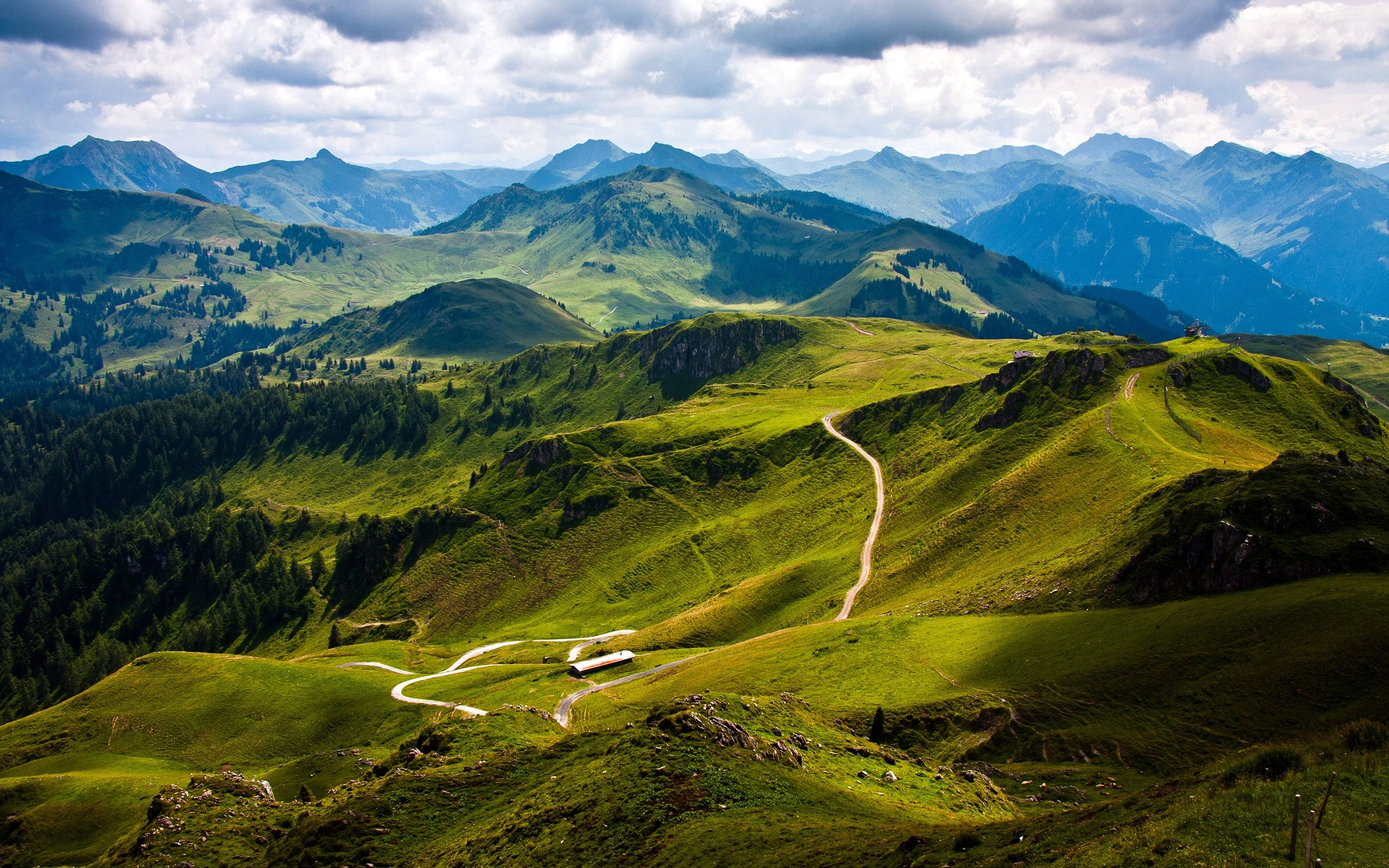
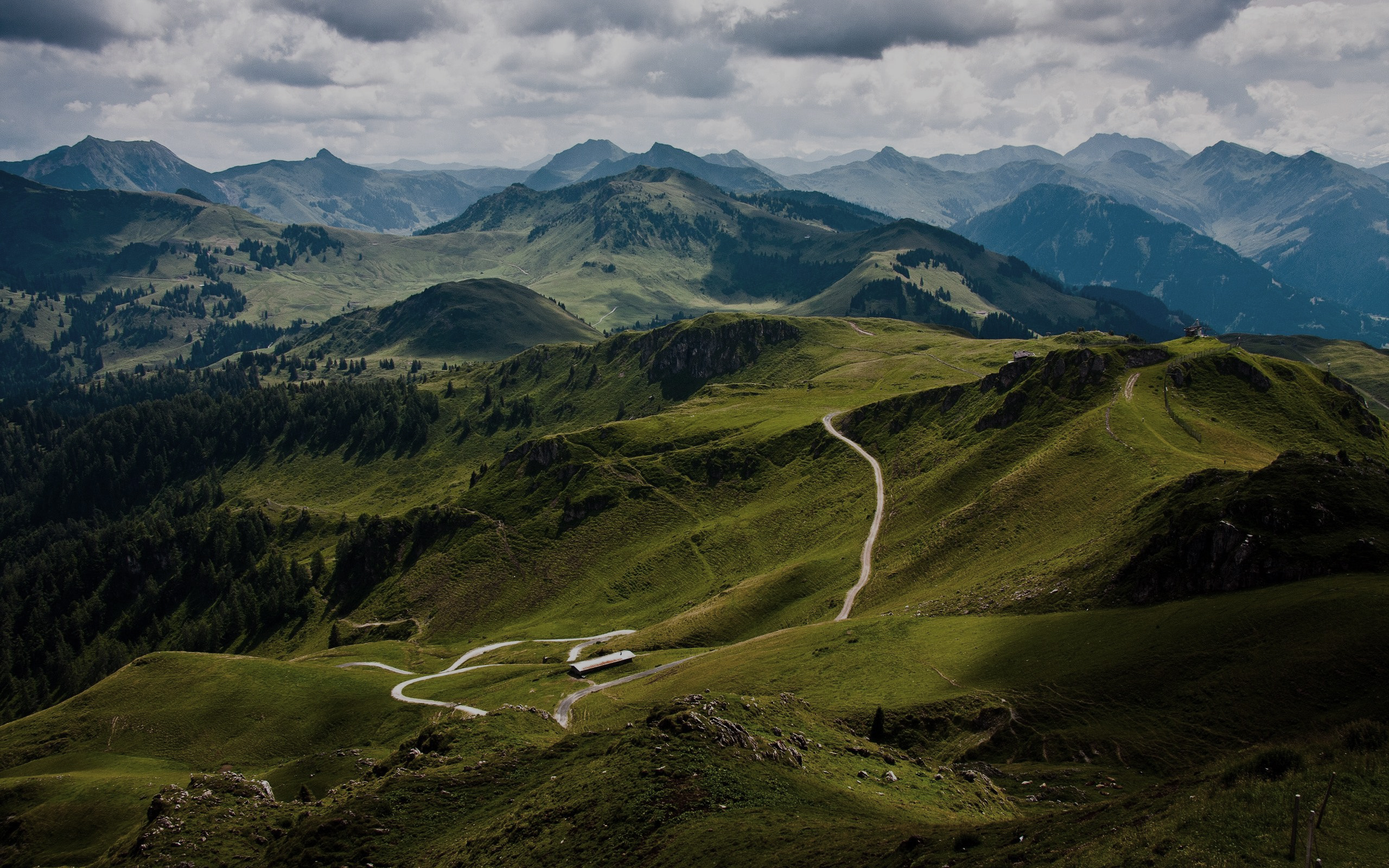
edited about me background image for easier viewing

diff --git a/style/style.css b/style/style.css
@@ -23,6 +23,7 @@ h1, h2, h3 {
 
 h1 {
     font-size: 50px;
+    margin: 0px;
 }
 
 h2 {
@@ -50,8 +51,8 @@ p, hr{
 }
 
 .two .face-content {
-    background-color: rgba(100, 100, 100, 0.4);
-    height: 100%;
+    /*background-color: rgba(100, 100, 100, 0.4);*/
+    /*height: 100%;*/
 }
 
 .three {

diff --git a/index.html b/index.html
@@ -59,7 +59,6 @@
         <div id="container">
 			<div id="cube">
 				<div class="face one active static-back">
-                    <canvas id="particles"></canvas>
 					<div class="face-content">
 						<h1>Alex Bieg</h1>
                         <h2>Developer. Designer. Creator.</h2>
